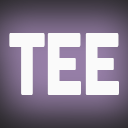
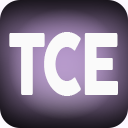
project rebranding

diff --git a/README.md b/README.md
@@ -1,6 +1,6 @@
-# Twitch Emotes Extension
+# Twitch Chat Extension
 
-A web brower extension made with Chrome Manifest v3 and Firefox Manifest v2. It adds custom emotes on the Twitch chat of [my channel](https://www.twitch.tv/aruten_). Emotes are only replaced in the chat area and will only be replaced on my channel. Clicking on the extension icon in the extension menu will display all available emotes with their respective keywords. 
+A web brower extension made with Chrome & Firefox Manifest v3. It adds custom emotes on the Twitch chat of [my channel](https://www.twitch.tv/aruten_). Emotes are only replaced in the chat area and will only be replaced on my channel. Additionnaly, the extension lets you add backgrounds (banners) to messages and badges next to users' names. Clicking on the extension icon in the extension menu will display all available emotes and banners with their respective keywords. 
 
 ## Installation guide
 
